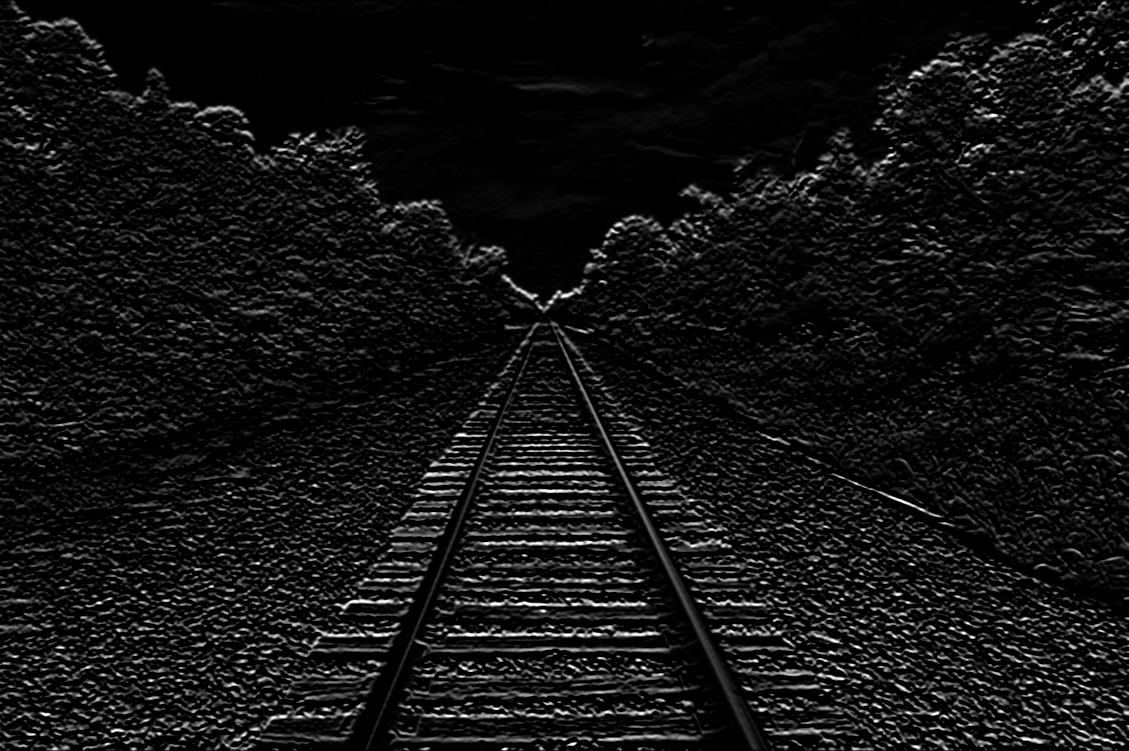
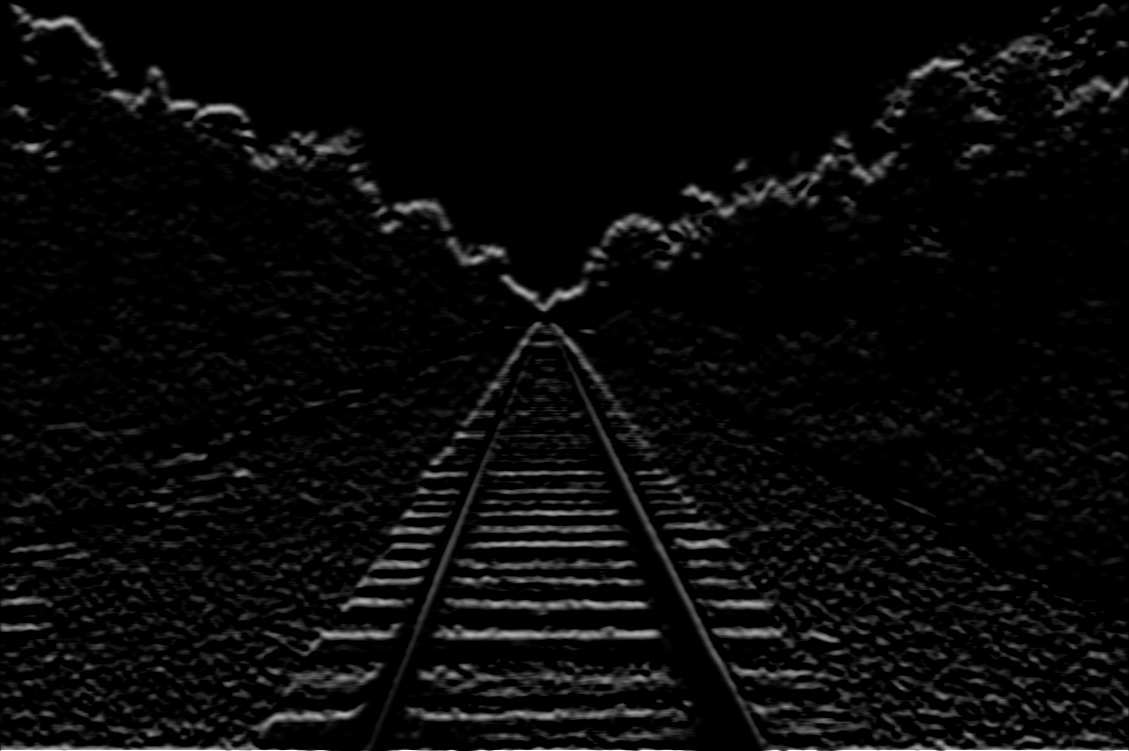
Hough Transform Done

diff --git a/count-tracks/hough_line_finder.py b/count-tracks/hough_line_finder.py
@@ -3,6 +3,7 @@ from scipy import signal, ndimage
 import cv2
 from math import ceil, floor, cos, sin
 
+
 fin = open('samples/sampleTest1.txt','r')
 
 r,c = map(int, fin.readline().split())
@@ -20,9 +21,24 @@ img = np.asarray(img, dtype=np.uint8)
 
 cv2.imwrite('color.jpg',img)
 
+
+#img = cv2.imread('line1.png',1)
+#r,c = img.shape[:2]
+
 gray_img = 0.299 * img[:,:,0] + 0.587 * img[:,:,1] + 0.114 * img[:,:,2]
 
 cv2.imwrite('gray.jpg',gray_img)
+
+#Contrast change
+
+for i in range(r):
+    for j in range(c):
+        if gray_img[i][j] < 127:
+            gray_img[i][j] =0
+        else:
+            gray_img[i][j] = 255
+
+cv2.imwrite('gray_img_increase_bright.jpg',gray_img)
 
 #gaussian filter
 sig = 3.0
@@ -39,7 +55,7 @@ gaussian_filter = np.asarray(gaussian_filter)
 
 #print gaussian_filter
 
-smoother_gray_image = signal.convolve2d(gray_img,gaussian_filter,boundary='symm',mode='same')
+smoother_gray_image = signal.convolve2d(gray_img,gaussian_filter,boundary='fill',mode='same')
 
 #print smoother_gray_image.shape
 #print img.shape
@@ -48,15 +64,15 @@ cv2.imwrite('smoother_gray_image.jpg',smoother_gray_image)
 
 #Finding the intensity gradient of the image using Sobel operator
 
-x_filter = [[-1,0,1],[-2,0,2],[-1,0,1]]
+x_filter = [[-1,0,1],[-1,0,1],[-1,0,1]]
 x_filter = np.asarray(x_filter)
 y_filter = x_filter.T
 
-G_x = signal.convolve2d(smoother_gray_image, x_filter, boundary='symm', mode='same')
-G_y = signal.convolve2d(smoother_gray_image, y_filter, boundary='symm', mode='same')
+G_x = signal.convolve2d(smoother_gray_image, x_filter, boundary='fill', mode='same')
+G_y = signal.convolve2d(smoother_gray_image, y_filter, boundary='fill', mode='same')
 
-#cv2.imwrite('G_x.jpg',G_x)
-#cv2.imwrite('G_y.jpg',G_y)
+cv2.imwrite('G_x.jpg',G_x)
+cv2.imwrite('G_y.jpg',G_y)
 
 G = np.sqrt(np.square(G_x) + np.square(G_y))
 theta = np.arctan2(G_y,G_x)
@@ -130,40 +146,76 @@ def traverse(i, j):
             traverse(i+x[k], j+y[k])
 
 
-for i in range(1, r-10):
-    for j in range(1, c-10):
+for i in range(1, r-50):
+    for j in range(1, c-50):
         if gnh[i][j]:
             gnh[i][j]=255
             traverse(i, j)
+
+for i in range(r):
+    for j in range(c):
+        if gnh[i][j] < 255:
+            gnh[i][j] = 0
 
 cv2.imwrite('canney_edge_detected.jpg',gnh)
 
 
 #Hough Transform
-dmin = int(ceil(-1 * max(r,c) * np.sqrt(2)))
+dmin = int(ceil(-1 * max(r,c) * 2))
 dmax = -1 * dmin
 thetamin = 0
-thetamax = 90
+thetamax = 180
 
 #print dmin, dmax
 
 thetabins = (thetamax - thetamin + 1) / 1
-dbins = int(ceil((dmax - dmin + 1) / 2))
+dbins = int(ceil((dmax - dmin + 1) / 1))
 
 accumulator = np.zeros((dbins,thetabins))
 
 #print accumulator.shape
-
 for i in range(r):
     for j in range(c):
         if gnh[i][j]:
-            for theta_j in range(91):
+            for theta_j in range(181):
                 d = i * cos(theta_j * np.pi / 180) - j * sin(theta_j * np.pi / 180)
                 #print d
-                d = int(ceil((d + dmax)/2))
+                d = int(ceil((d + dmax)/1))
                 #print d
-                accumulator[d ,theta_j] += 1
-
+                accumulator[d ,int(ceil(theta_j/1))] += 1
+                
 cv2.imwrite('accumulator.jpg',accumulator)
 
 
+smoother_accumulator = signal.convolve2d(accumulator,gaussian_filter,boundary='fill',mode='same')
+
+cv2.imwrite('smoother_accumulator.jpg',smoother_accumulator)
+
+d_found,theta_found = 0,0
+print np.max(smoother_accumulator)
+maxx = int(np.max(smoother_accumulator))
+for i in range(smoother_accumulator.shape[0]):
+    #print i
+    for j in range(smoother_accumulator.shape[1]):
+        if smoother_accumulator[i][j] < maxx -5:
+            smoother_accumulator[i][j] = 0
+        else:
+            smoother_accumulator[i][j] = 255
+            d_found = i - dmax
+            theta_found = j
+
+cv2.imwrite('points_in_polar_space.jpg',smoother_accumulator)
+
+print d_found, theta_found
+
+new_img = np.ones((r,c,3))
+
+new_img *= 255
+
+for i in range(r):
+    for j in range(c):
+        if d_found >= int(i * cos(theta_found * np.pi / 180) - j * sin(theta_found * np.pi / 180)) - 1 and d_found <= int(i * cos(theta_found * np.pi / 180) - j * sin(theta_found * np.pi / 180)) + 1:
+            #print True
+            new_img[i,j,1] = 0
+
+cv2.imwrite('new_img.jpg',new_img)
